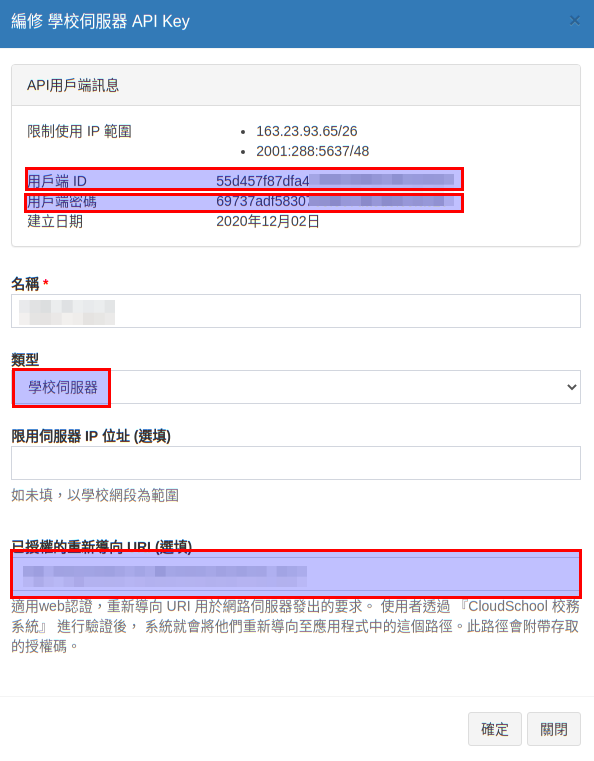
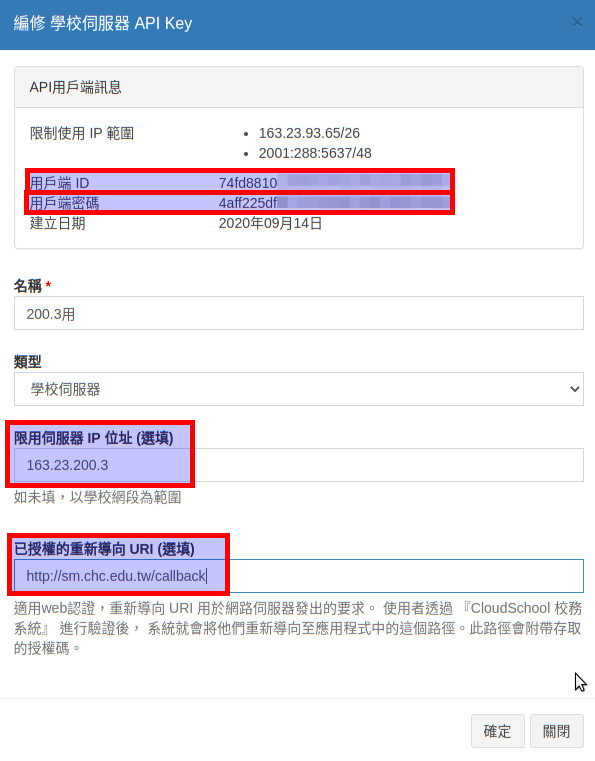
fix

diff --git a/routes/web.php b/routes/web.php
@@ -25,7 +25,7 @@ Route::post('g_auth', 'LoginController@g_auth')->name('g_auth');
 Route::get('openid_get', 'LoginController@openid_get')->name('openid_get');
 //cloudschool登入
 Route::post('cloudschool_auth', 'LoginController@cloudschool_auth')->name('cloudschool_auth');
-Route::get('cloudschool_back', 'LoginController@cloudschool_back')->name('cloudschool_back');
+Route::get('callback', 'LoginController@cloudschool_back')->name('cloudschool_back');
 //登出
 Route::post('logout', 'LoginController@logout')->name('logout');
 
